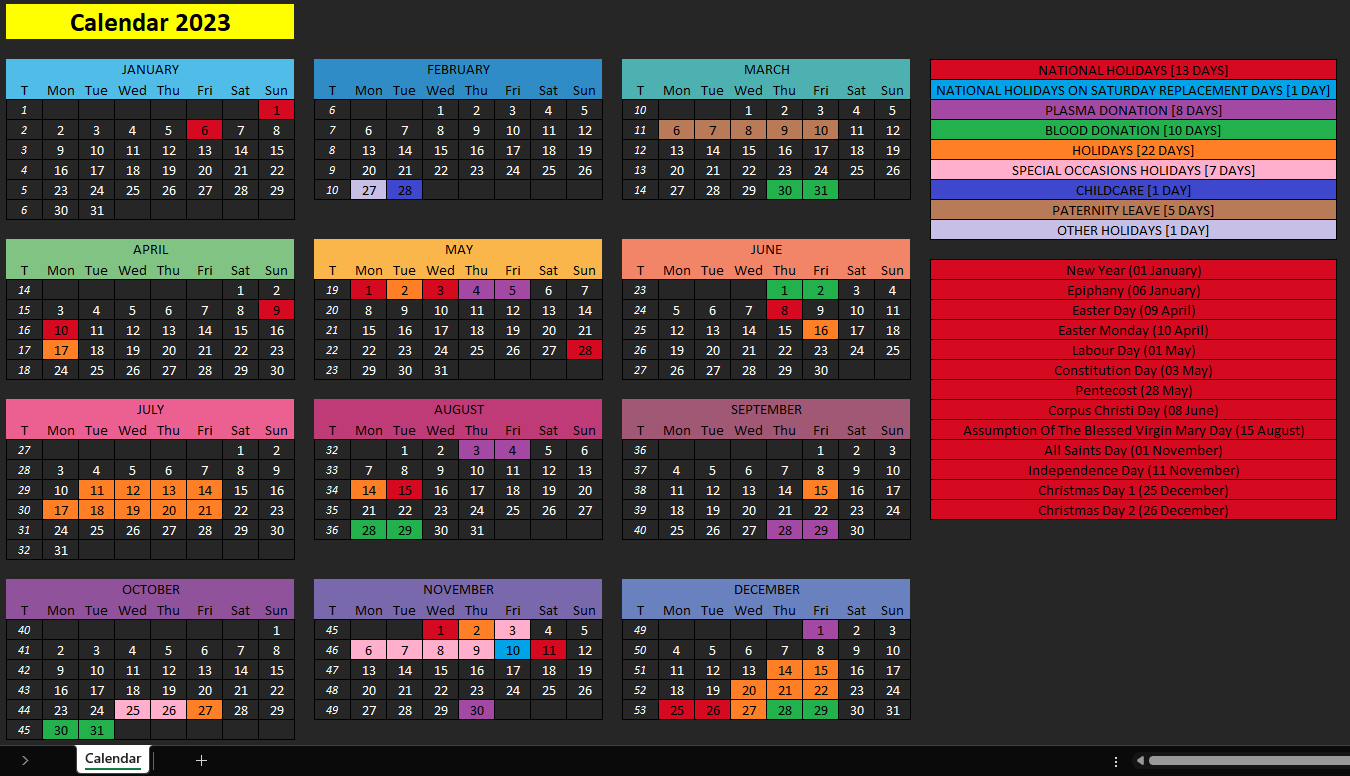
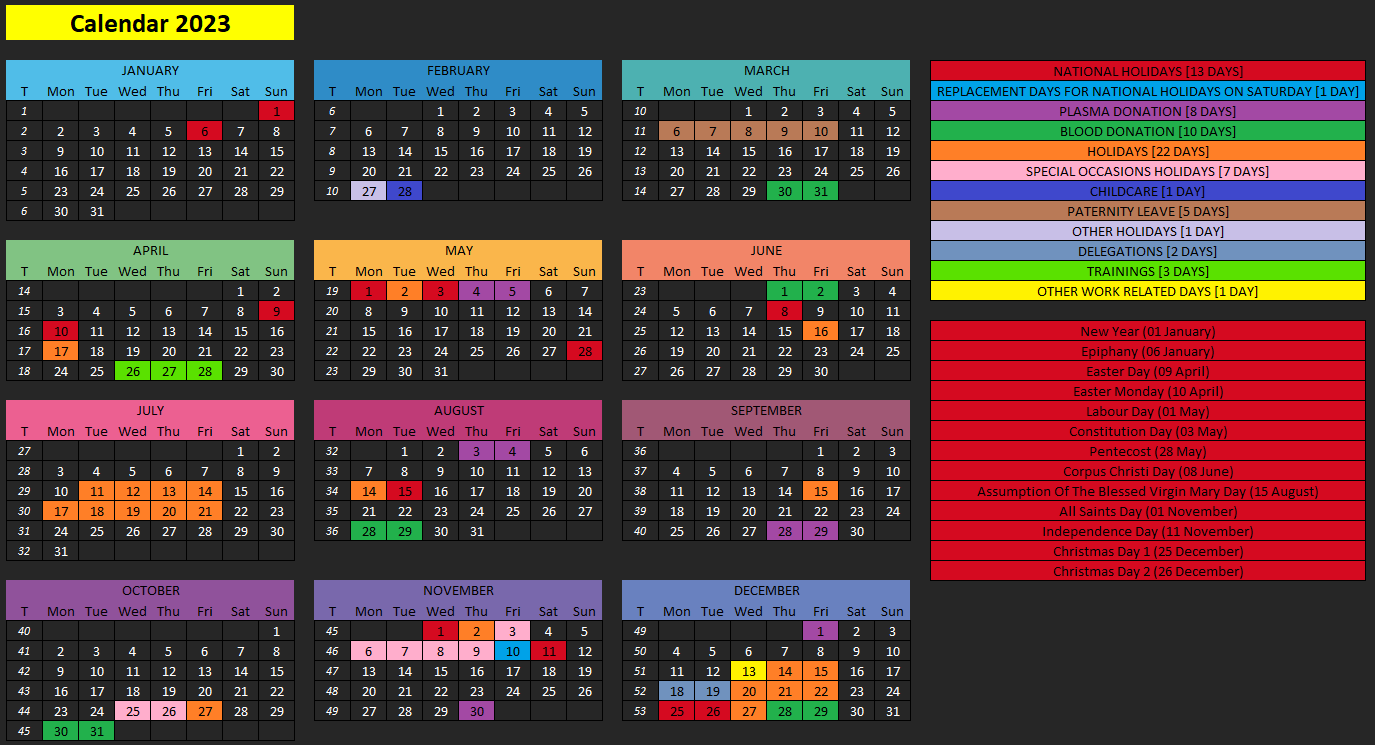
Update README and image after adding Work days.

diff --git a/README.md b/README.md
@@ -1,7 +1,7 @@
 # calendar
 
 # About The Project
-Script creates an Excel file with your highlighted holidays, national holidays, special occasions holidays, blood/plasma donation, etc.
+Script creates an Excel file with your highlighted holidays, national holidays, special occasions holidays, blood/plasma donation, etc. + work-related days (delegations, trainings, etc.).
 
 # Built with
 ### Python 3.12.2
@@ -57,6 +57,15 @@ Script creates an Excel file with your highlighted holidays, national holidays, 
   ],
   "OTHER HOLIDAYS": [
     {"single_day": {"month": 2, "day": 27}}
+  ],
+  "DELEGATIONS": [
+    {"start": {"month": 12, "day": 18}, "end": {"month": 12, "day": 19}}
+  ],
+  "TRAININGS": [
+    {"start": {"month": 4, "day": 26}, "end": {"month": 4, "day": 28}}
+  ],
+  "OTHER WORK RELATED DAYS": [
+    {"single_day": {"month": 12, "day": 13}}
   ]
 }
 ```
